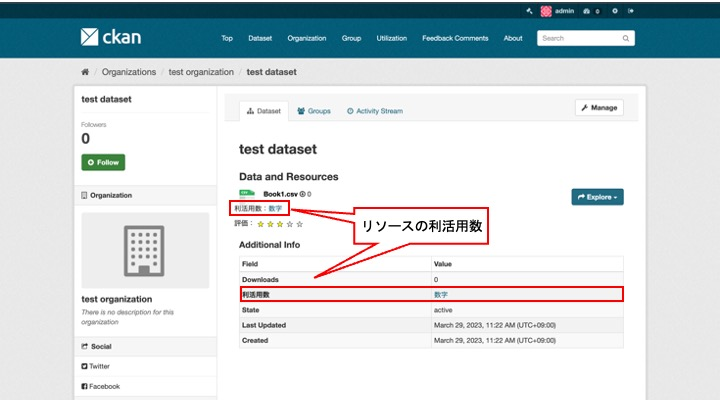
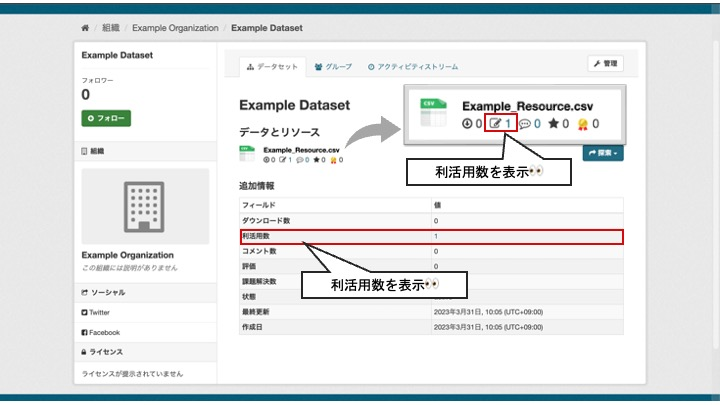
update the pictures of utilization

Changed region(s): [[0.0, 0.0, 1.0, 0.8593], [0.0, 0.7111, 1.0, 1.0], [0.8556, 0.7111, 0.8861, 0.7407]]

diff --git a/docs/ja/utilization.md b/docs/ja/utilization.md
@@ -27,7 +27,7 @@
 
 【リソース詳細画面　イメージ図】  
 
-![utilization モジュール　リソース詳細画面　イメージ図](../assets/utilizations_image.jpg)
+![utilization モジュール　リソース詳細画面　イメージ図](../assets/utilization_comment_image.jpg)
 
 * データを利活用したアプリやシステムに対して以下のことが出来ます
   * 利活用方法の紹介
